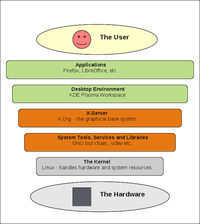
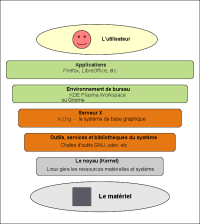
correction de coquilles ou oubli de trad

diff --git a/contribute.md b/contribute.md
@@ -1,10 +1,10 @@
 ---
 layout: default
-title: "Appendix E: S'investir - Faire partie de la communauté openSUSE et comment contribuer"
+title: "Annexe E: S'investir - Faire partie de la communauté openSUSE et comment contribuer"
 permalink: contribuer
 ---
 
-# Appendix E: Contribuer
+# Annexe E: Contribuer
 
 openSUSE est développé en mode ouvert, et tout le monde peut y participer - cela signifie que vous pouvez aider à créer et à façonner openSUSE. Si vous souhaitez participer activement à openSUSE ou à d'autres projets de logiciels libres, il y a beaucoup de choses à faire. Trouver quelque chose qui correspond à vos intérêts, à votre temps disponible et à vos compétences ne devrait poser aucun problème.
 

diff --git a/help.md b/help.md
@@ -1,10 +1,10 @@
 ---
 layout: default
-title: "Appendix A: Aide et Docs - Support et documentation pour openSUSE"
+title: "Annexe A: Aide et Docs - Support et documentation pour openSUSE"
 permalink: aide
 ---
 
-# Appendix A: Aide et Docs
+# Annexe A: Aide et Docs
 
 Ce guide n'est qu'une brève introduction à quelques notions de base, il est donc probable que vous aurez besoin d'aide supplémentaire à un moment donné. Rien ne vaut l'aide d'un ami en face à face et sur place, mais ce n'est pas souvent possible, donc heureusement, il existe de nombreux endroits où vous pouvez obtenir de l'aide des utilisateurs openSUSE sur le net - la méthode à choisir dépend de vos préférences personnelles.
 

diff --git a/history.md b/history.md
@@ -1,10 +1,10 @@
 ---
 layout: default
-title: "Appendix D: Histoire et contexte - Qu'est-ce que le Logiciel Libre et Open Source et Quelle est l'histoire d'openSUSE ?"
+title: "Annexe D: Histoire et contexte - Qu'est-ce que le Logiciel Libre et Open Source et Quelle est l'histoire d'openSUSE ?"
 permalink: histoire
 ---
 
-# Appendix D: Histoire et contexte
+# Annexe D: Histoire et contexte
 
 Le but de ce chapitre est de donner aux lecteurs un aperçu et une connaissance basique de l'histoire et de l'écosystème de GNU/Linux et des logiciels libres/open source en général..
 

diff --git a/games.md b/games.md
@@ -1,10 +1,10 @@
 ---
 layout: default
-title: "Appendix B: Jeux - Jouer à des jeux sur openSUSE"
+title: "Annexe B: Jeux - Jouer à des jeux sur openSUSE"
 permalink: jeux
 ---
 
-# Appendix B: Jeux
+# Annexe B: Jeux
 
 Tous les grands jeux grand public ne fonctionnent pas nativement sous GNU/Linux, mais il y a encore beaucoup de possibilités de jeu.
 

diff --git a/under.md b/under.md
@@ -4,7 +4,7 @@ title: "Annexe C: Sous le capot - À la découverte de ce qu'il se passe sous la
 permalink: under
 ---
 
-# Appendix C: Sous la surface
+# Annexe C: Sous la surface
 
 L'objectif de ce chapitre est de donner au lecteur un aperçu et quelques idées de ce qu'il se passe dans les rouages d'un système d'exploitation openSUSE GNU/Linux.
 
